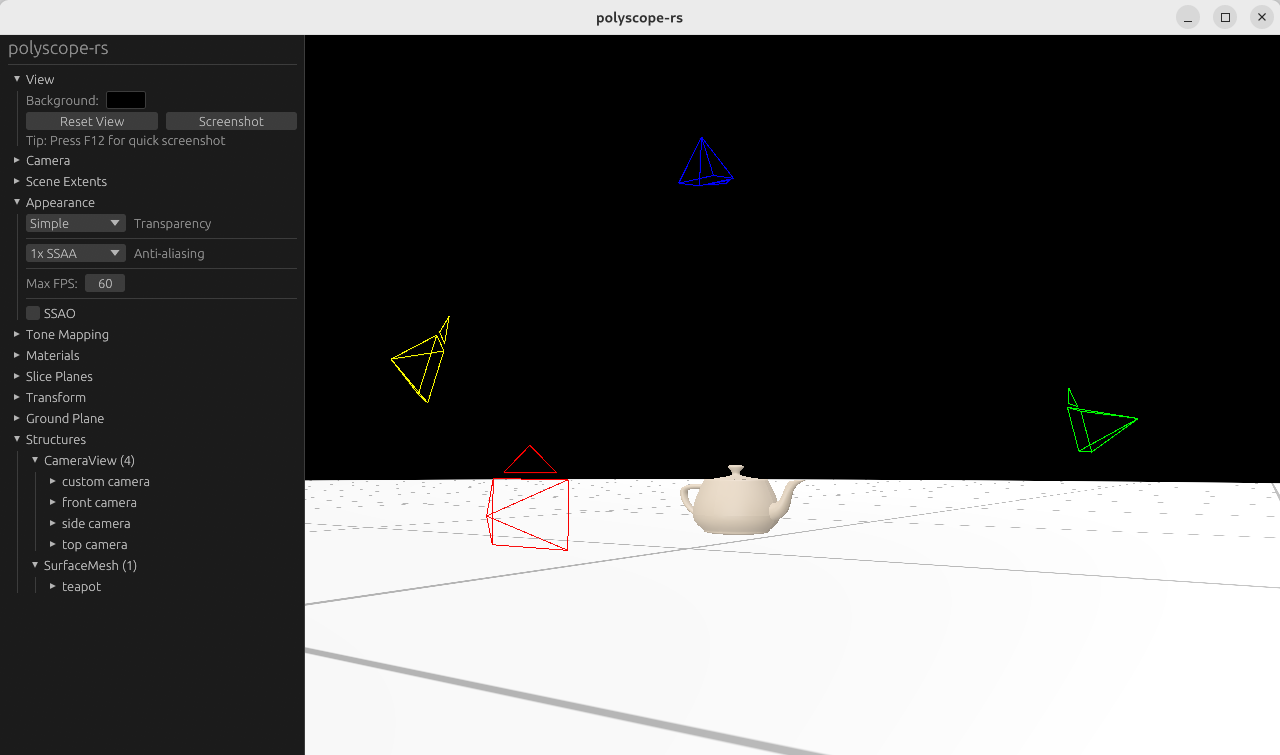
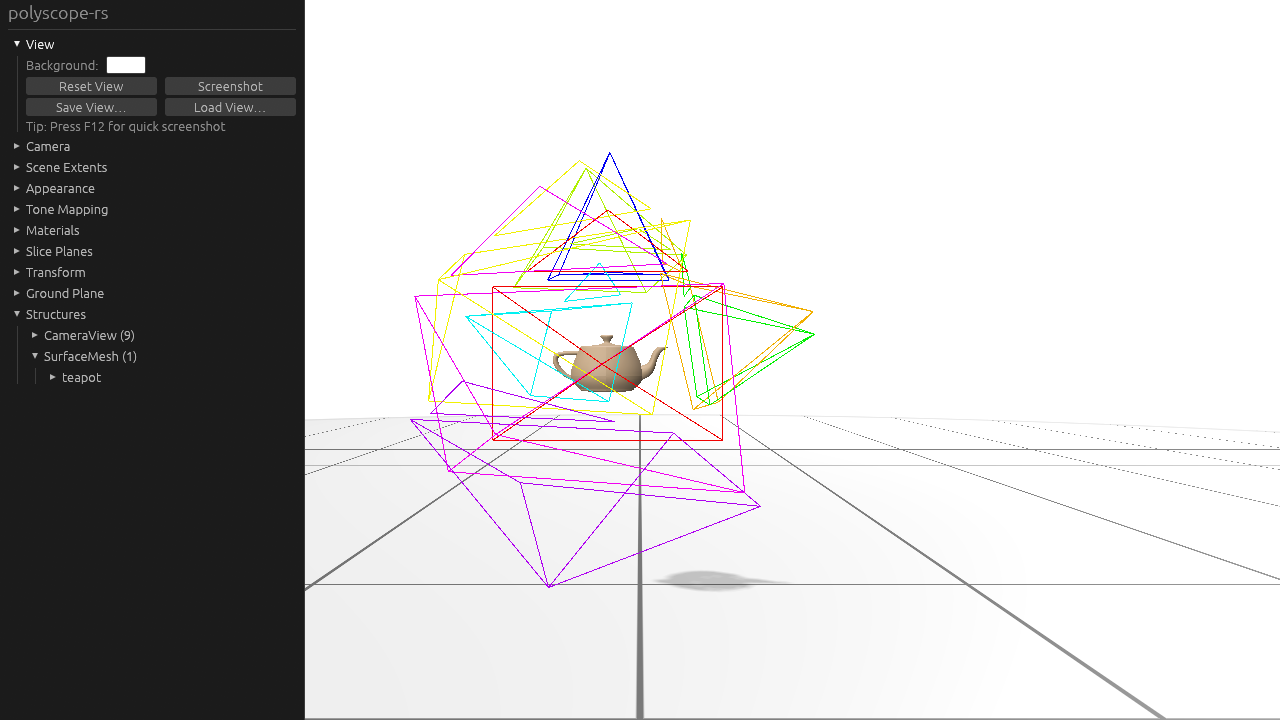
docs(readme): retake the README images with the current render look

diff --git a/CHANGELOG.md b/CHANGELOG.md
@@ -11,9 +11,16 @@ and this project adheres to [Semantic Versioning](https://semver.org/spec/v2.0.0
 - The default background color is white, as in C++ Polyscope. It was dark
   gray (0.1, 0.1, 0.1). Set `Options::background_color` for another color.
 
+- The "Add" button of the Slice Planes panel adds a plane with an automatic
+  name ("Scene Slice Plane N") when the name field is empty, as the
+  "Add plane" button of C++ Polyscope does. Before, it did nothing.
+
 ### Added
 - `Camera::update_flight_at(now)` steps a camera flight to a given time.
   `Camera::update_flight` calls it with the current time.
+
+### Documentation
+- New README images, taken with the 0.6 render look and the white background.
 
 ## [0.6.0] - 2026-11-16
 

diff --git a/README.md b/README.md
@@ -177,7 +177,7 @@ cargo run --example <demo_name>
 | Transparency | `cargo run --example transparency_demo` | Depth peeling (Pretty) and alpha blending (Simple) modes |
 | View State | `cargo run --example view_state_demo` | Save and load a view, then render the restored view headless |
 
-The `generate_screenshots` example is a tool. It renders the images in `docs/images/` without a window.
+The `generate_screenshots` example is a tool. It renders six gallery scenes without a window to `docs/images/screenshot_*.png`. The images in this README are window captures of the demos above.
 
 **Controls** (common to all demos):
 - Left drag: Orbit camera
